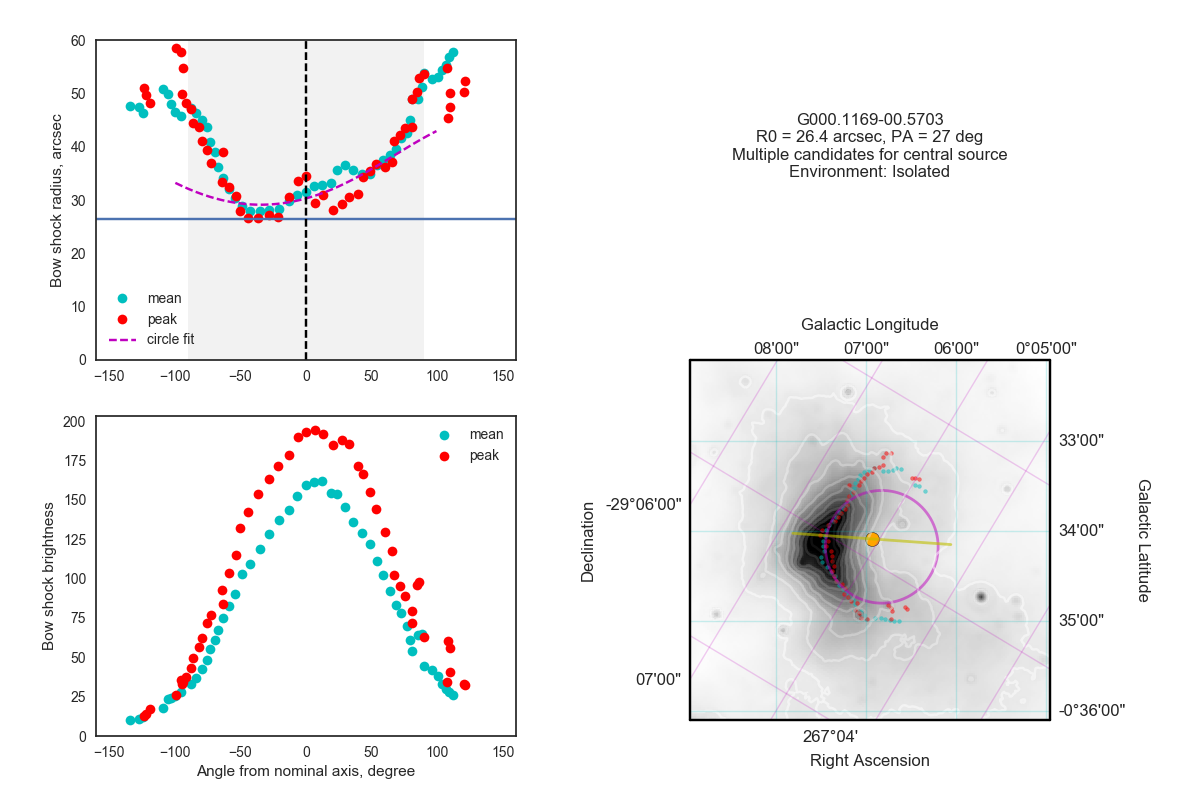
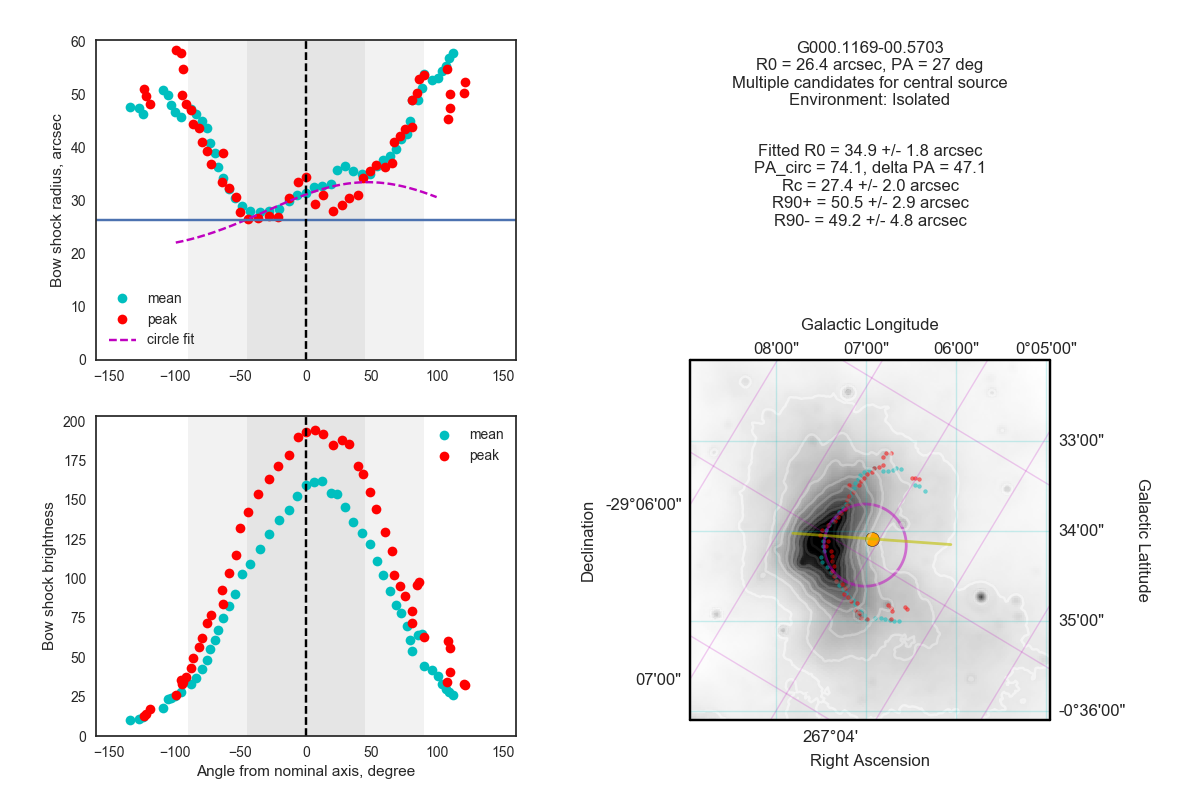
Determin R90 for OB bow shocks

diff --git a/Stellar-Bowshocks-2017/mipsgal-trace-arc.py b/Stellar-Bowshocks-2017/mipsgal-trace-arc.py
@@ -41,7 +41,7 @@ OVERRIDE = {
     650: {'R0': 50},
 }
 STEP_BACK_FACTOR = 2.0
-CIRCLE_THETA = 60.0*u.deg
+CIRCLE_THETA = 45.0*u.deg
 
 THMIN, THMAX = coord.Angle([-160.0*u.deg, 160.0*u.deg])
 
@@ -67,7 +67,7 @@ def coord_concat(array_tuple, **kwds):
     return coord.SkyCoord(np.concatenate(array_tuple, **kwds))
 
 
-for source_data in source_table[:100]:
+for source_data in source_table[:10]:
 
     # Override data from table where necessary
     if source_data['Seq'] in OVERRIDE:
@@ -244,13 +244,33 @@ for source_data in source_table[:100]:
                              frame=offset_frame).transform_to('icrs')
     Rc, center = circle_fit_utils.fit_circle(points2fit, center0)
 
+    # Find standard deviation of points from circle
+    Rc_sigma = np.std(
+        circle_fit_utils.deviation_from_circle(points2fit, center)
+    ).to(u.arcsec)
+
     # Find PA of circle fit
-    if Rc > R0:
-        # Case where center of curvature is "behind" the source
-        pa_circ = center.position_angle(c).to(u.deg)
-    else:
-        # Case where center of curvature is "in front of" the source
+    # First assume case where center of curvature is "behind" the source
+    pa_circ = center.position_angle(c).to(u.deg)
+    # Find difference between fitted and nominal position angle
+    delta_pa = coord.Longitude(pa_circ - pa0, wrap_angle=180*u.deg)
+    if np.abs(delta_pa) > 90*u.deg:
+        # Check for Case where center of curvature is "in front of" the source
         pa_circ = c.position_angle(center).to(u.deg)
+        delta_pa = coord.Longitude(pa_circ - pa0, wrap_angle=180*u.deg)
+
+    # Find our estimate of R0
+    #
+    # Make some masks selecting points within 10 deg of pa_circ
+    m0_peak = np.abs(theta_peak_grid - delta_pa) <= 10.0*u.deg
+    m0_mean = np.abs(theta_mean_grid - delta_pa) <= 10.0*u.deg
+    # Then concatenate all the R values that meet this condition
+    R0_grid = coord.Angle(
+        np.concatenate((rpeak_grid.value[m0_peak],
+                        rmean_grid.value[m0_mean])),
+        unit=u.arcsec)
+    R0_fit, R0_sigma = R0_grid.mean(), R0_grid.std()
+    fit_msg = f'Fitted R0 = {R0_fit.arcsec:.1f} +/- {R0_sigma.arcsec:.1f} arcsec' + '\n'
 
     # Make an offset frame centered on the center of curvature
     circ_offset_frame = center.skyoffset_frame(rotation=pa_circ)
@@ -262,11 +282,35 @@ for source_data in source_table[:100]:
     circ_theta = coord.Longitude(
         c.position_angle(circ_points).to(u.deg) - pa0,
         wrap_angle=180*u.degree)
-    mcirc = (circ_theta >= -100.0*u.deg) & (circ_theta <= 100.0*u.deg)
     circ_radius = c.separation(circ_points).to(u.arcsec)
+    # Eliminate points that are not within +/- 100 deg of nominal axis
+    mcirc = (circ_theta >= -100.0*u.deg) & (circ_theta <= 100.0*u.deg)
     circ_radius[~mcirc] *= np.nan
-    print('PA_circ =', pa_circ.deg, 'PA_0 =', pa0.deg)
-    print('Rc =', Rc.arcsec, 'R0 =', R0)
+    fit_msg += f'PA_circ = {pa_circ.deg:.1f}, delta PA = {delta_pa.deg:.1f}' + '\n'
+    fit_msg += f'Rc = {Rc.arcsec:.1f} +/- {Rc_sigma.arcsec:.1f} arcsec' + '\n'
+
+    # Find R90
+    #
+    # Make some masks selecting points within 10 deg of +90 and -90
+    m90p_peak = np.abs(theta_peak_grid - 90.0*u.deg) <= 10.0*u.deg
+    m90n_peak = np.abs(theta_peak_grid + 90.0*u.deg) <= 10.0*u.deg
+    m90p_mean = np.abs(theta_mean_grid - 90.0*u.deg) <= 10.0*u.deg
+    m90n_mean = np.abs(theta_mean_grid + 90.0*u.deg) <= 10.0*u.deg
+    # Then concatenate all the R values for the two cases
+    R90p_grid = coord.Angle(
+        np.concatenate((rpeak_grid.value[m90p_peak],
+                        rmean_grid.value[m90p_mean])),
+        unit=u.arcsec)
+    R90n_grid = coord.Angle(
+        np.concatenate((rpeak_grid.value[m90n_peak],
+                        rmean_grid.value[m90n_mean])),
+        unit=u.arcsec)
+    # And calculate mean and standard deviation
+    R90p, R90p_sigma = R90p_grid.mean(), R90p_grid.std()
+    R90n, R90n_sigma = R90n_grid.mean(), R90n_grid.std()
+    fit_msg += f'R90+ = {R90p.arcsec:.1f} +/- {R90p_sigma.arcsec:.1f} arcsec' + '\n'
+    fit_msg += f'R90- = {R90n.arcsec:.1f} +/- {R90n_sigma.arcsec:.1f} arcsec' + '\n'
+
 
     # Save a figure for each source
     fig = plt.figure(figsize=(12, 8))
@@ -281,12 +325,16 @@ for source_data in source_table[:100]:
 	      '--', c='m', label='circle fit')
     ax_r.axhline(R0.value)
     ax_r.axvspan(-90.0, 90.0, facecolor='k', alpha=0.05)
+    ax_r.axvspan(-CIRCLE_THETA.value, CIRCLE_THETA.value, facecolor='k', alpha=0.05)
     ax_r.axvline(0.0, c='k', ls='--')
     ax_r.legend()
     ax_r.set(xlim=[THMIN.deg, THMAX.deg],
              ylim=[0.0, None], ylabel='Bow shock radius, arcsec')
     ax_b.plot(theta_mean_grid, bmean_grid - bright_median, 'o', c='c', label='mean')
     ax_b.plot(theta_peak_grid, bmax_grid - bright_median, 'o', c='r', label='peak')
+    ax_b.axvspan(-90.0, 90.0, facecolor='k', alpha=0.05)
+    ax_b.axvspan(-CIRCLE_THETA.value, CIRCLE_THETA.value, facecolor='k', alpha=0.05)
+    ax_b.axvline(0.0, c='k', ls='--')
     ax_b.legend()
     ax_b.set(xlim=[THMIN.deg, THMAX.deg], xlabel='Angle from nominal axis, degree',
              ylim=[0.0, None], ylabel='Bow shock brightness',
@@ -334,8 +382,11 @@ for source_data in source_table[:100]:
     overlay['b'].set_axislabel('Galactic Latitude')
 
     # Add title
-    ax_i.text(0.5, 1.5, description_from_table_row(source_data),
+    ax_i.text(0.5, 1.7, description_from_table_row(source_data),
 	      transform=ax_i.transAxes, ha='center', va='bottom'
+    )
+    ax_i.text(0.5, 1.6, fit_msg,
+	      transform=ax_i.transAxes, ha='center', va='top'
     )
 
     fig.savefig(image_name.replace('.fits', '-multiplot.png'))
